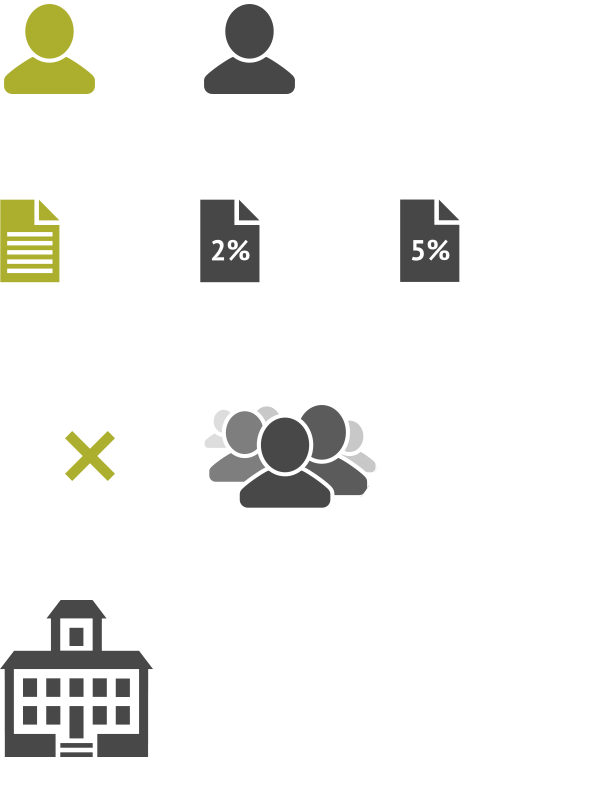
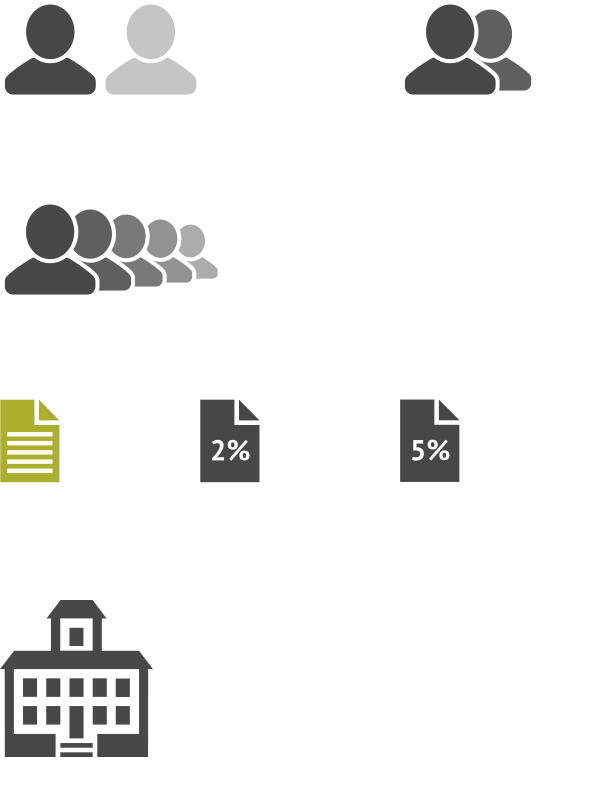
Update info graph.

diff --git a/municipalityinitiative-web/src/main/webapp/css/less-imports/info-graph.less b/municipalityinitiative-web/src/main/webapp/css/less-imports/info-graph.less
@@ -33,10 +33,6 @@
 	background: #fff;
 	text-align: center;
 
-	h4 {
-		margin-bottom: 0;
-	}
-
 	p {
 		font-size: 0.9em;
 
@@ -46,7 +42,7 @@
 	}
 
 	.span {
-		display: block;
+		position: relative;
 		float: left;
 
 		padding: 0 10px;
@@ -97,20 +93,25 @@
 	}
 
 	.content {
-		min-height: 260px;
 		margin-left: 22%;
 		padding-left: 30px;
 		padding-right: 30px;
+		padding-bottom: 20px;
 		background: #fff;
 
 		* { line-height: 1.2; }
 
 		.c-group { position: relative; }
-		.c-group-1 {  }
-		.c-group-2 { padding:40px 0; }
-		.c-group-3 { }
-		.c-group-4 { padding-top: 20px; }
-		.c-group-5 { padding-top: 50px; }
+		.c-group-1 { }
+		.c-group-2 { }
+		.c-group-3 {
+			min-height: 200px;
+			padding-top: 20px;
+		}
+		.c-group-4 {
+			padding-top: 50px;
+			padding-bottom: 70px;
+		}
 	}
 
 	.order {
@@ -118,7 +119,7 @@
 		font-size: 2em;
 
 		.ie7 &, .ie8 & {
-			background:url("../../img/ie/info-graph-circles-fallback.png?version=${timestamp}") 0 0 no-repeat;	
+			background:url("../../img/ie/info-graph-circles-fallback.png?version=${timestamp}") 0 0 no-repeat;
 		}
 	}
 
@@ -126,7 +127,7 @@
 		.circle(88px, #f0f0f0);
 
 		.ie7 &, .ie8 & {
-			background:url("../../img/ie/info-graph-circles-fallback.png?version=${timestamp}") -100px 0 no-repeat;	
+			background:url("../../img/ie/info-graph-circles-fallback.png?version=${timestamp}") -100px 0 no-repeat;
 		}
 	}
 
@@ -163,29 +164,33 @@
 		}
 
 		&.normal {
-			.infoGraphSprite(0, 1);
-		}
-
-		&.two-percent {
-			.infoGraphSprite(1, 1);
-		}
-
-		&.five-percent {
-			.infoGraphSprite(2, 1);
-		}
-
-		&.no-collect {
-			width: 90px;
-			height: 56px;
-
 			.infoGraphSprite(0, 2);
 		}
 
-		&.collect {
-			width: 90px;
-			height: 56px;
-
+		&.two-percent {
 			.infoGraphSprite(1, 2);
+		}
+
+		&.five-percent {
+			.infoGraphSprite(2, 2);
+		}
+
+		&.collect-normal {
+			width: 100px;
+			height: 50px;
+			.infoGraphSprite(0, 0);
+		}
+
+		&.collect-two-percent {
+			width: 68px;
+			height: 50px;
+			.infoGraphSprite(2, 0);
+		}
+
+		&.collect-five-percent {
+			width: 111px;
+			height: 50px;
+			.infoGraphSprite(0, 1);
 		}
 
 		&.municipality {
@@ -214,11 +219,31 @@
 			&.left { left: 0; }
 			&.right { right: 0; }
 
+			// TODO: refactor class names
+			&.line-10 {
+				width: @infoGraphVerLineWidth;
+				left: 50%;
+				margin-left: -@infoGraphVerLineWidth/2;
+			}
+			&.line-30 {
+				// width: 1/3*100%;
+				width: 160px;
+
+				&.middle {
+					left: 50%;
+					// margin-left: -1/6*100%;
+					margin-left: -80px;
+				}
+
+			}
 			&.line-20 { width: 80px; }
+			&.line-20 { width: 80px; }
+			&.line-45 { width: 236px; }
 			&.line-50 { width: 245px; }
 			&.line-55 { width: 325px; }
 			&.line-60 { width: 327px; }
 			&.line-70 { width: 410px; }
+			&.line-100 { width: 100%; }
 
 			&.pullup {
 				top: -9px;
@@ -251,7 +276,7 @@
 					border-top: 8px solid @infoGraphBlack;
 				}
 			}
-		
+
 
 			.arrow {
 				position: absolute;
@@ -262,7 +287,10 @@
 				// general
 				&.right { right: 0; }
 				&.left { left: 0; }
-				&.middle { left: 50%; }
+				&.middle {
+					left: 50%;
+					margin-left: -@infoGraphVerLineWidth/2;
+				}
 
 				// custom: group-line-arrow
 				&.arrow-1-2-2 { right: 240px; }
@@ -273,8 +301,8 @@
 					position: absolute;
 					left: 0;
 					bottom: -8px;
-					width: 0; 
-					height: 0; 
+					width: 0;
+					height: 0;
 					border-left: 7px solid transparent;
 					border-right: 7px solid transparent;
 				}
